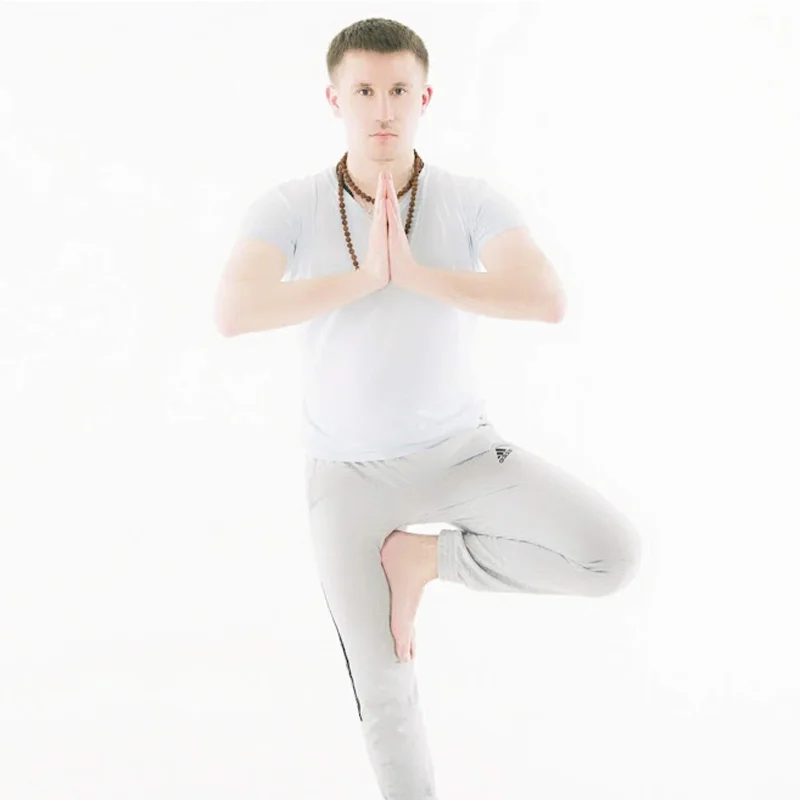
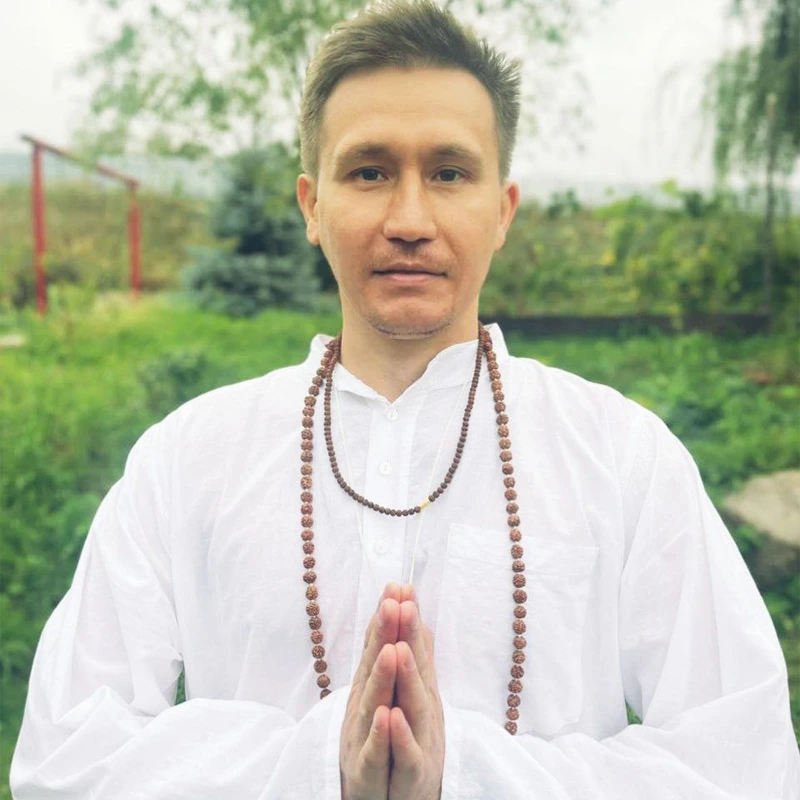
commit 1.72

diff --git a/components/BannerRetrit.tsx b/components/BannerRetrit.tsx
@@ -3,17 +3,23 @@ import bannerRetrit from "@/public/Banners/retrit.webp"
 
 const BannerRetrit = () => {
   return (
-    <div className='w-full flex flex-col gap-1 mt-7 lg:mt-10 xl:mt-20'>
+    <div className='w-full flex flex-col lg:flex-row justify-center items-center gap-1 mt-20 lg:mt-40'>
+      <a href="https://shaktima.vercel.app/mdc-events/dhiyana" target="_blank"
+        rel="noreferrer">
+        <Image src={bannerRetrit} alt="Ретрит в ШактиМа" className="px-1 rounded-md" />
+      </a>
       <a href="https://shaktima.vercel.app/mdc-events/dhiyana"
         target="_blank"
         rel="noreferrer"
-        className='text'>
-        <h5 className='titleMP  text-center'>Ретрит в Москве (донейшн)</h5>
+        className='w-full'>
+        <h5 className='titleMP  text-center py-2'>Ретрит в Москве</h5>
+        <p className='mt-1 w-full text-center'>• 28 июня с 9:30 до 19:00</p>
+        <p className='mt-1 w-full text-center'>• Для начинающих и опытных садху</p>
+        <p className='mt-1 w-full text-center'>• За свободные пожертвования</p>
+        <p className='mt-1 w-full text-center'>• Дхарма центр ШактиМа</p>
+        <p className='mt-1 w-full text-center'>• Проводит Тиртхадева</p>
       </a>
-      <a href="https://shaktima.vercel.app/mdc-events/dhiyana" target="_blank"
-        rel="noreferrer">
-        <Image src={bannerRetrit} alt="Ретрит в ШактиМа" className="w-full " />
-      </a>
+
     </div>
   )
 }

diff --git a/app/osebe/education/page.tsx b/app/osebe/education/page.tsx
@@ -168,6 +168,7 @@ const page = () => {
               <p className="textMP">• №20 Недельный семинар с Гуру в Казахстане (июль 2025);</p>
               <p className="textMP">• №21 Семидневный ретрит по изучению учения (ноябрь 2025);</p>
               <p className="textMP">• №22 Двухдневный семинар: 20 крий кундалини йоги и йога иллюзорного тела со свамини Ананда Лила Гири (май 2025);</p>
+              <p className="textMP">• №23 Семинар по крийя кундалини йоге №1 с монахом Раманатха Гири (май 2025);</p>
             </MyAccordion>
 
             <MyAccordion title="Список проведенных мероприятий" id="myEvents" className="bg-gray-50 dark:bg-slate-700 shadow-md p-2 rounded-md">
@@ -182,6 +183,8 @@ const page = () => {
               <p className="textMP">• №9 Семидневный йога тур. Алтайский ашрам Садху Тапован (июль 2025).</p>
               <p className="textMP">• №10 Семидневный ретрит «4БСБ». Алтайский ашрам Садху Тапаван (июль-август 2025).</p>
               <p className="textMP">• №11 Однодневный практический семинар по хатха йоге. ДЦ ШактиМа 02.11.2025. </p>
+              <p className="textMP">• №12 Медитативный ретрит. ДЦ ШактиМа 24.05.2026. </p>
+              <p className="textMP">• №13 Интенсив по динамической йоге. ДЦ ШактиМа 31.05.2026.</p>
             </MyAccordion>
 
           </div>

diff --git a/app/page.tsx b/app/page.tsx
@@ -12,6 +12,7 @@ import PngYogiMP from "@/components/PngYogiMP"
 import GoToTop from '@/components/GoToTop'
 import Contacts from "@/components/Contacts"
 import tirthadeva from "@/public/myPhoto-2.webp"
+import tirthadeva2 from "@/public/myPhoto-108.webp"
 import Price from "@/components/Price"
 import BannerRetrit from "@/components/BannerRetrit"
 
@@ -34,6 +35,8 @@ export default function Home() {
       <MyPhoto foto={tirthadeva} />
       <Price />
       <Contacts />
+      <div className="w-full mt-20 lg:mt-40" />
+      <MyPhoto foto={tirthadeva2} />
       <GoToTop url={"/"} />
       <PngYogiMP />
     </main >